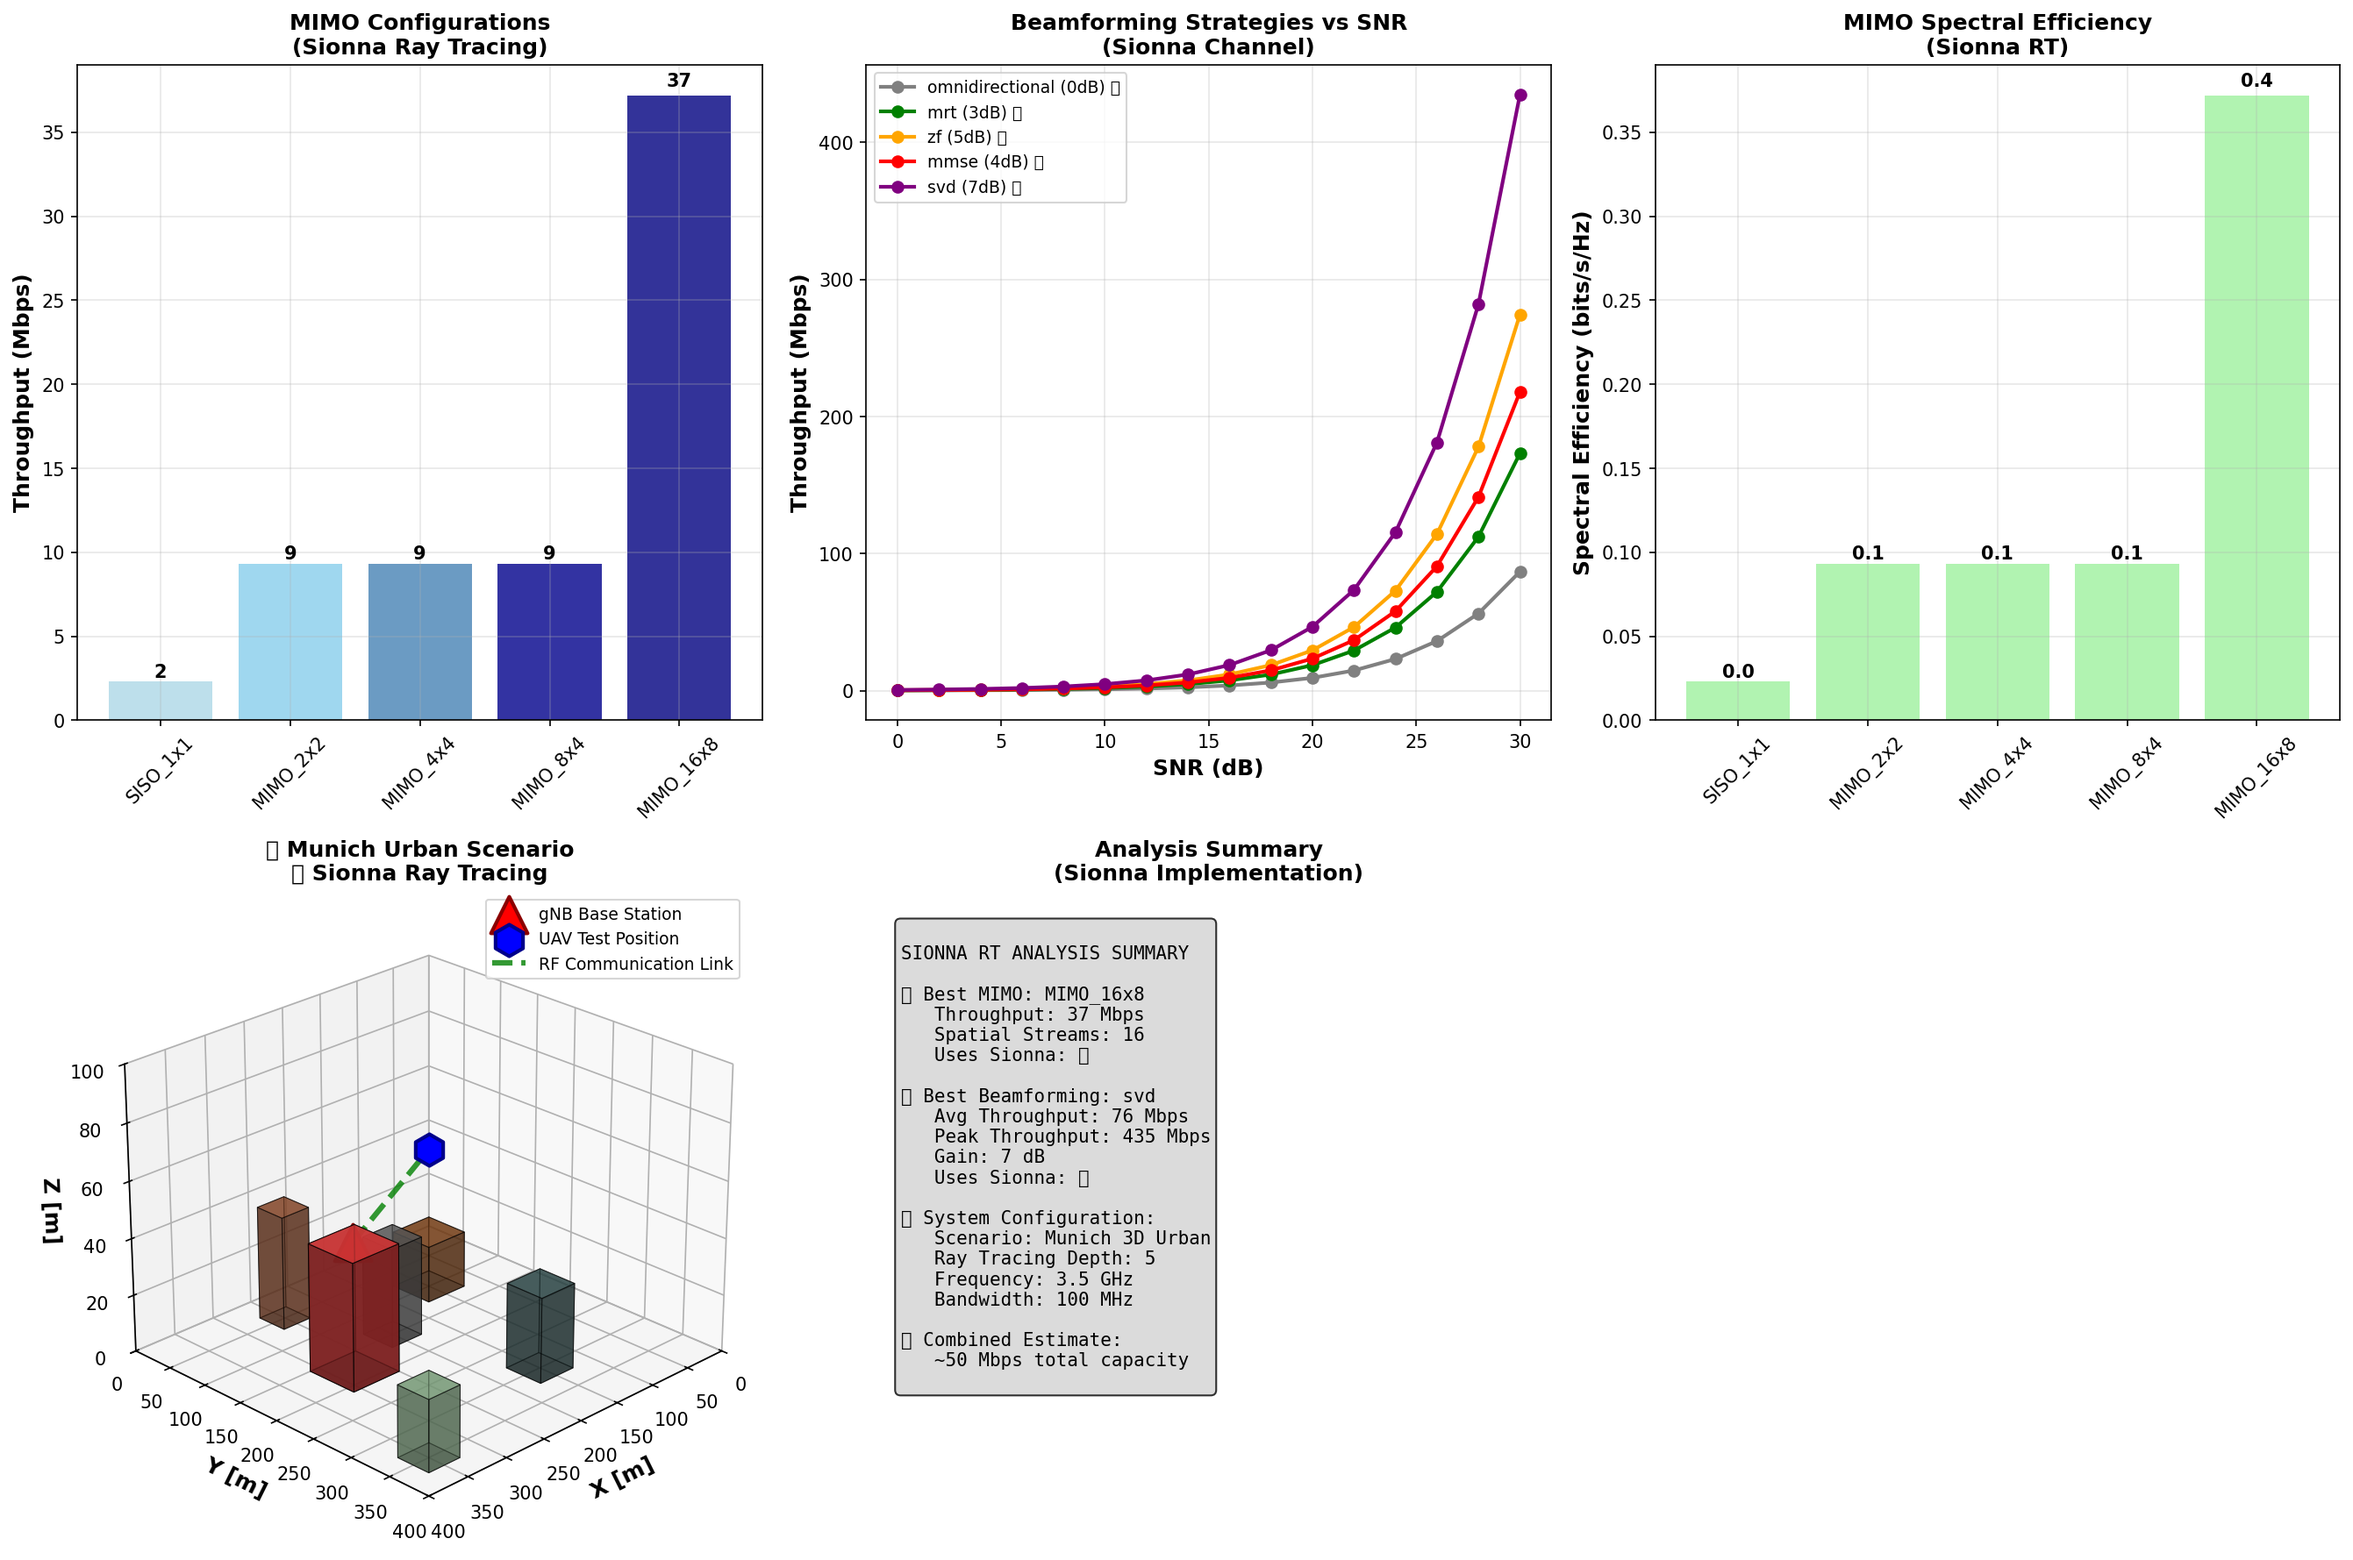
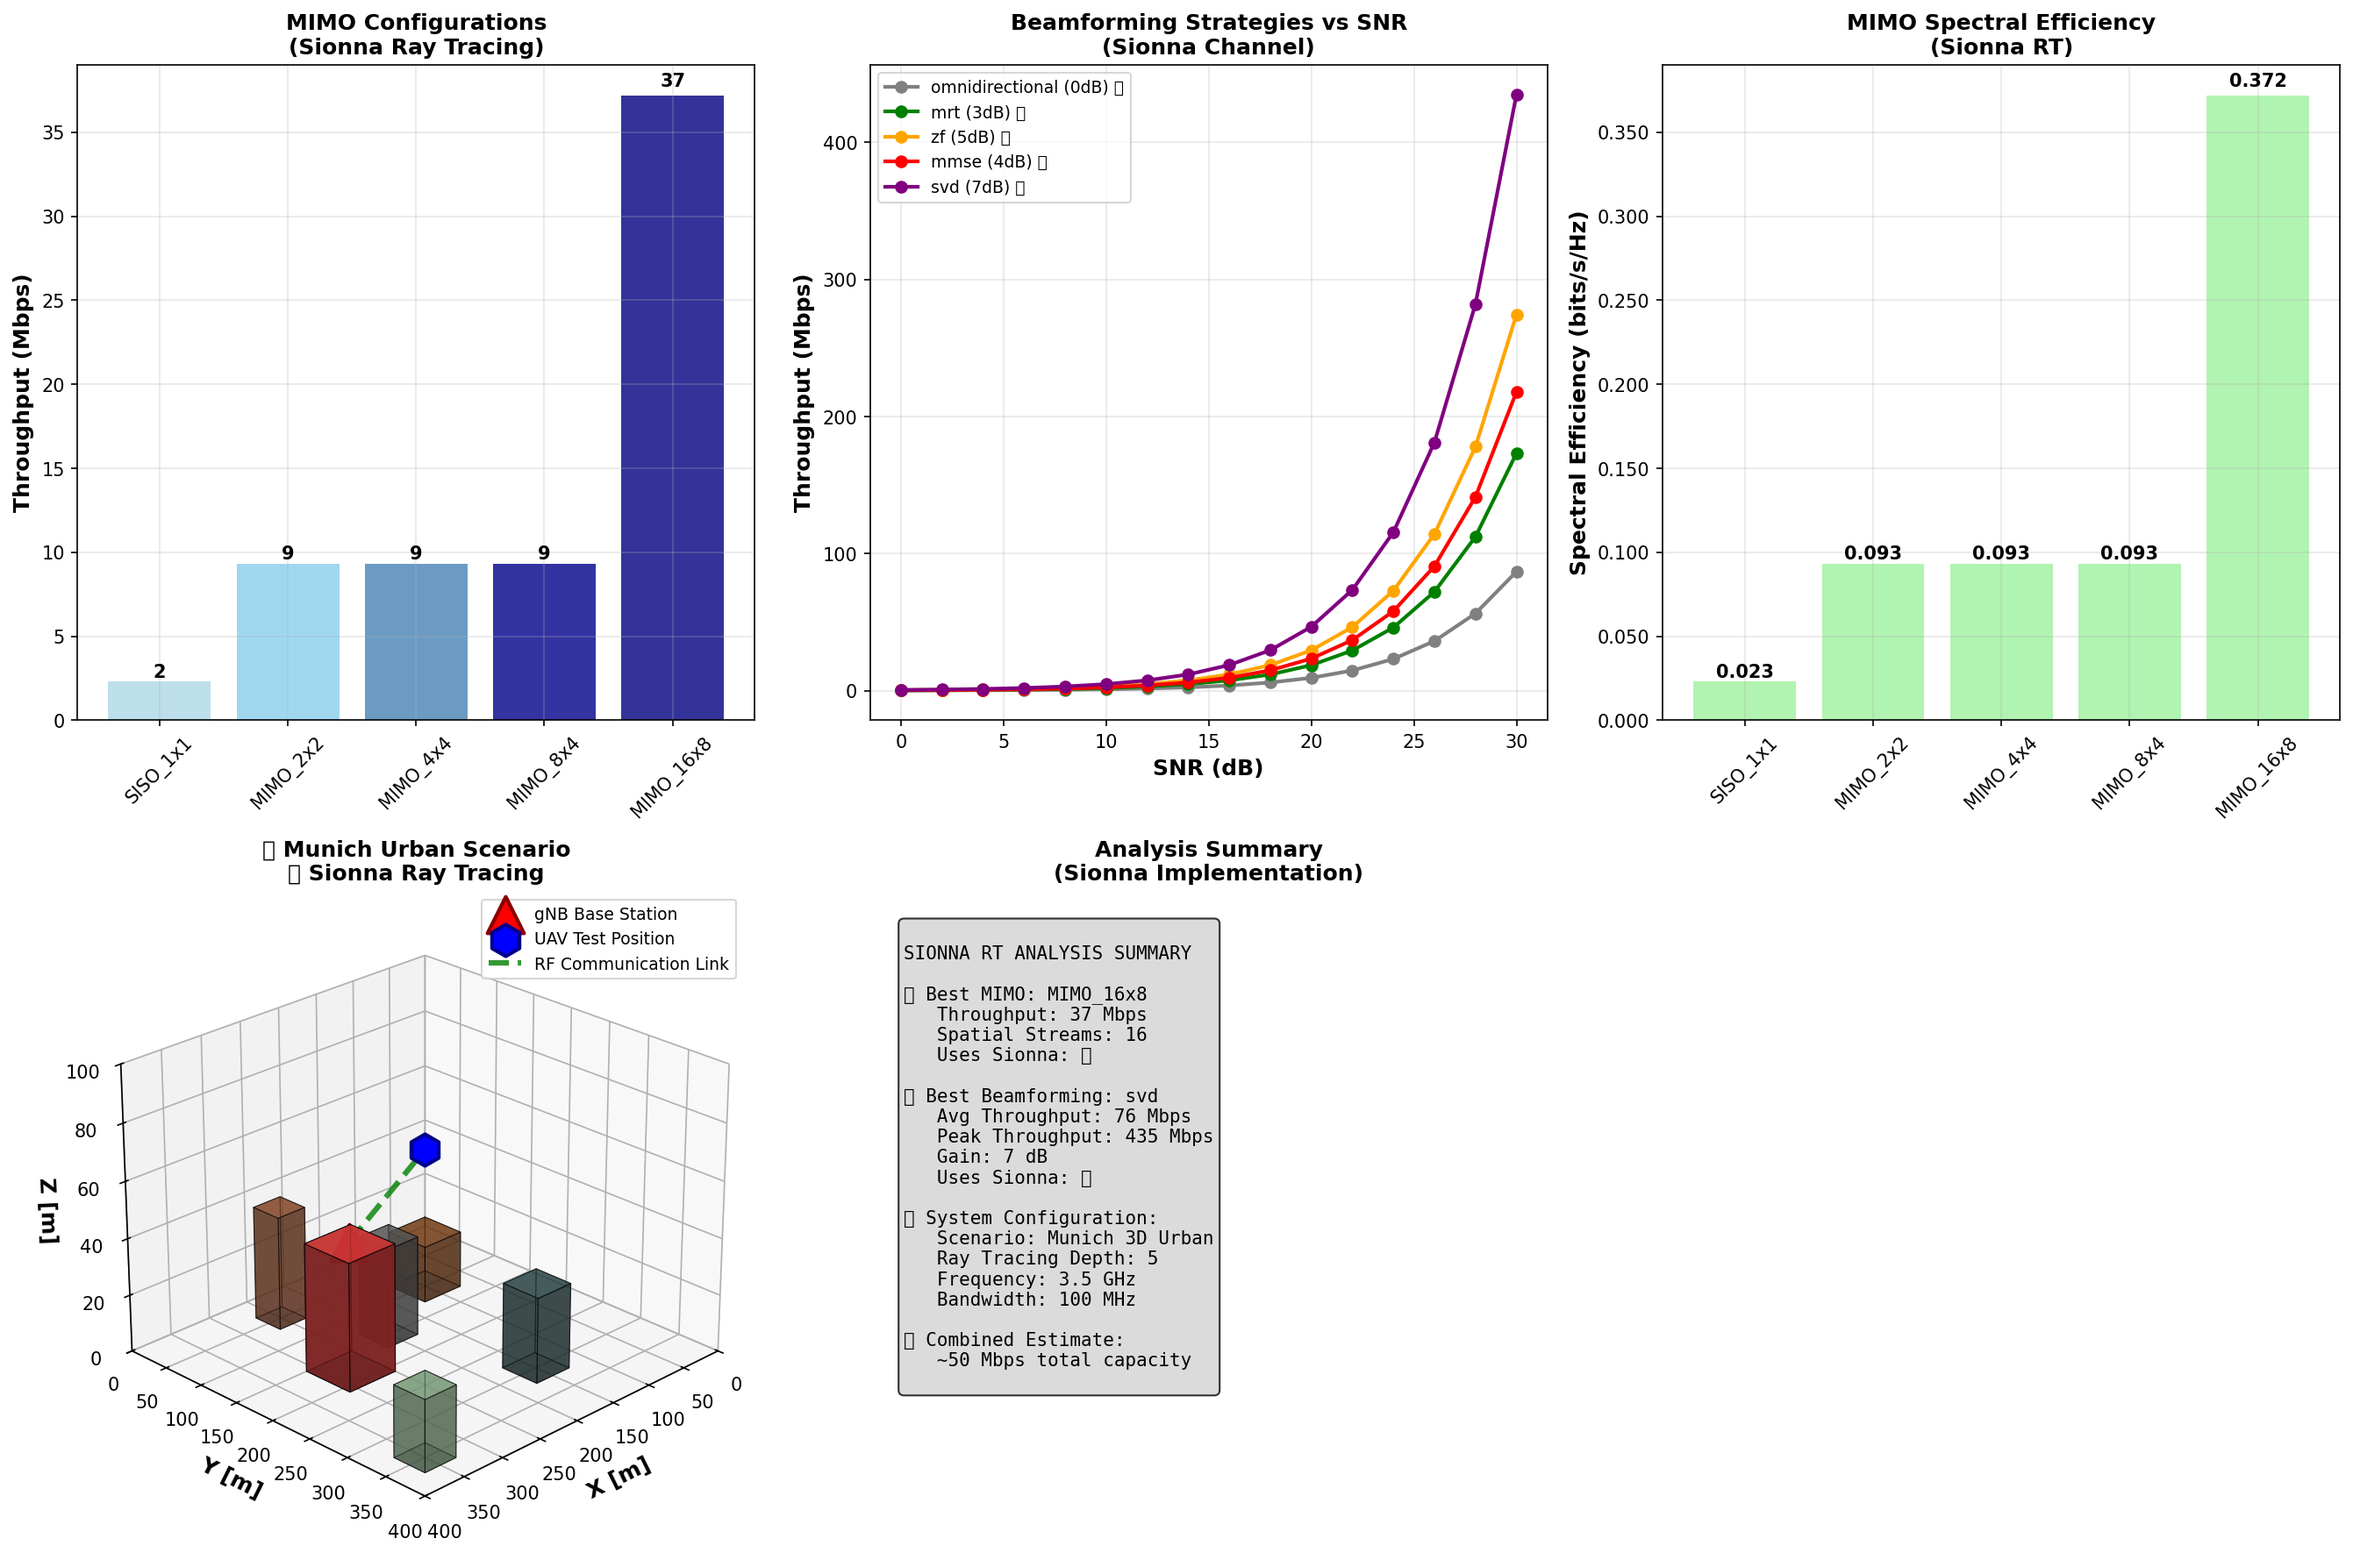
🔢 Aplicar FuncFormatter a todos los gráficos de todos los análisis
- Agregado FuncFormatter import a todos los módulos
- Aplicado formato de 3 decimales a ejes Y en:
  * mobility_analysis_gui.py (ax2, ax3)
  * interference_analysis_gui.py (ax2, ax3, ax4)
  * height_analysis_gui.py (ax1, ax2, ax3, ax4)
  * coverage_analysis_gui.py (colorbars)
  * mimo_beamforming_gui.py (ya estaba hecho)
- Evita valores truncados en toda la interfaz

diff --git a/final/GUI/analysis/height_analysis_gui.py b/final/GUI/analysis/height_analysis_gui.py
@@ -4,6 +4,7 @@ Análisis de throughput vs altura UAV adaptado para interfaz PyQt6
 """
 import numpy as np
 import matplotlib.pyplot as plt
+from matplotlib.ticker import FuncFormatter
 import os
 import json
 import sys
@@ -401,6 +402,7 @@ class HeightAnalysisGUI:
         ax2.set_xlabel('Altura UAV [m]', fontweight='bold', fontsize=12)
         ax2.set_ylabel('Path Loss [dB]', fontweight='bold', fontsize=12)
         ax2.set_title('Path Loss vs Altura', fontweight='bold', fontsize=12)
+        ax2.yaxis.set_major_formatter(FuncFormatter(lambda x, p: f'{x:.3f}'))
         ax2.grid(True, alpha=0.4)
         
         # Plot 3: LoS Probability vs Height
@@ -408,6 +410,7 @@ class HeightAnalysisGUI:
         ax3.set_xlabel('Altura UAV [m]', fontweight='bold', fontsize=12)
         ax3.set_ylabel('Probabilidad LoS', fontweight='bold', fontsize=12)
         ax3.set_title('Probabilidad LoS vs Altura', fontweight='bold', fontsize=12)
+        ax3.yaxis.set_major_formatter(FuncFormatter(lambda x, p: f'{x:.3f}'))
         ax3.set_ylim([0, 1.1])
         ax3.grid(True, alpha=0.4)
         
@@ -420,6 +423,7 @@ class HeightAnalysisGUI:
         ax4.set_xlabel('Altura UAV [m]', fontweight='bold', fontsize=12)
         ax4.set_ylabel('SNR [dB]', fontweight='bold', fontsize=12)
         ax4.set_title('SNR vs Altura', fontweight='bold', fontsize=12)
+        ax4.yaxis.set_major_formatter(FuncFormatter(lambda x, p: f'{x:.3f}'))
         ax4.grid(True, alpha=0.4)
         
         # Add SNR threshold lines

diff --git a/final/GUI/analysis/coverage_analysis_gui.py b/final/GUI/analysis/coverage_analysis_gui.py
@@ -4,6 +4,7 @@ Análisis de cobertura con mapas de throughput, LoS/NLoS adaptado para PyQt6
 """
 import numpy as np
 import matplotlib.pyplot as plt
+from matplotlib.ticker import FuncFormatter
 from matplotlib.colors import LinearSegmentedColormap
 import os
 import json
@@ -269,6 +270,7 @@ class CoverageAnalysisGUI:
         # Colorbar
         cbar1 = plt.colorbar(im1, ax=ax1)
         cbar1.set_label('Throughput [Mbps]', fontweight='bold', fontsize=12)
+        cbar1.ax.yaxis.set_major_formatter(FuncFormatter(lambda x, p: f'{x:.3f}'))
         
         # 2. LoS/NLoS Map
         im2 = ax2.contourf(results['X'], results['Y'], results['los_map'], 
@@ -301,6 +303,7 @@ class CoverageAnalysisGUI:
         
         cbar3 = plt.colorbar(im3, ax=ax3)
         cbar3.set_label('Path Loss [dB]', fontweight='bold', fontsize=12)
+        cbar3.ax.yaxis.set_major_formatter(FuncFormatter(lambda x, p: f'{x:.3f}'))
         
         # 4. SNR Map
         im4 = ax4.contourf(results['X'], results['Y'], results['snr_map'], 
@@ -313,6 +316,7 @@ class CoverageAnalysisGUI:
         
         cbar4 = plt.colorbar(im4, ax=ax4)
         cbar4.set_label('SNR [dB]', fontweight='bold', fontsize=12)
+        cbar4.ax.yaxis.set_major_formatter(FuncFormatter(lambda x, p: f'{x:.3f}'))
         
         # Main title
         fig.suptitle('ANÁLISIS COBERTURA 2D MUNICH - Sistema UAV 5G NR\nMapas de Throughput, LoS/NLoS, Path Loss y SNR', 

diff --git a/final/GUI/analysis/interference_analysis_gui.py b/final/GUI/analysis/interference_analysis_gui.py
@@ -4,6 +4,7 @@ Análisis de interferencia entre múltiples UAVs y optimización SINR
 """
 import numpy as np
 import matplotlib.pyplot as plt
+from matplotlib.ticker import FuncFormatter
 from matplotlib.colors import LinearSegmentedColormap
 import os
 import json
@@ -384,6 +385,7 @@ class InterferenceAnalysisGUI:
         ax2.set_title('Comparación SINR por Escenario\nCalidad de Señal vs Interferencia', fontweight='bold', fontsize=12)
         ax2.set_xticks(x_pos)
         ax2.set_xticklabels(scenario_names, rotation=45, ha='right')
+        ax2.yaxis.set_major_formatter(FuncFormatter(lambda x, p: f'{x:.3f}'))
         ax2.legend()
         ax2.grid(True, alpha=0.3)
         
@@ -409,6 +411,8 @@ class InterferenceAnalysisGUI:
         ax3.set_title('Análisis Throughput Multi-UAV\nCapacidad Total vs Individual', fontweight='bold', fontsize=12)
         ax3.set_xticks(x_pos)
         ax3.set_xticklabels(scenario_names, rotation=45, ha='right')
+        ax3.yaxis.set_major_formatter(FuncFormatter(lambda x, p: f'{x:.3f}'))
+        ax3_twin.yaxis.set_major_formatter(FuncFormatter(lambda x, p: f'{x:.3f}'))
         ax3.grid(True, alpha=0.3)
         
         # Add value labels

diff --git a/final/GUI/analysis/mobility_analysis_gui.py b/final/GUI/analysis/mobility_analysis_gui.py
@@ -4,6 +4,7 @@ Análisis de diferentes patrones de movimiento para optimización de throughput
 """
 import numpy as np
 import matplotlib.pyplot as plt
+from matplotlib.ticker import FuncFormatter
 from matplotlib.colors import LinearSegmentedColormap
 from matplotlib.animation import FuncAnimation
 import os
@@ -421,6 +422,7 @@ class MobilityAnalysisGUI:
         ax2.set_xlabel('Tiempo [s]', fontweight='bold', fontsize=12)
         ax2.set_ylabel('Throughput [Mbps]', fontweight='bold', fontsize=12)
         ax2.set_title('Throughput vs Tiempo\nPerformance Temporal', fontweight='bold')
+        ax2.yaxis.set_major_formatter(FuncFormatter(lambda x, p: f'{x:.3f}'))
         ax2.grid(True, alpha=0.3)
         ax2.legend()
         
@@ -442,6 +444,7 @@ class MobilityAnalysisGUI:
         ax3.set_title('Comparación Performance\nThroughput Promedio por Patrón', fontweight='bold', fontsize=12)
         ax3.set_xticks(range(len(pattern_names)))
         ax3.set_xticklabels(pattern_names, rotation=45, ha='right')
+        ax3.yaxis.set_major_formatter(FuncFormatter(lambda x, p: f'{x:.3f}'))
         ax3.grid(True, alpha=0.3, axis='y')
         
         # Add value labels on bars
